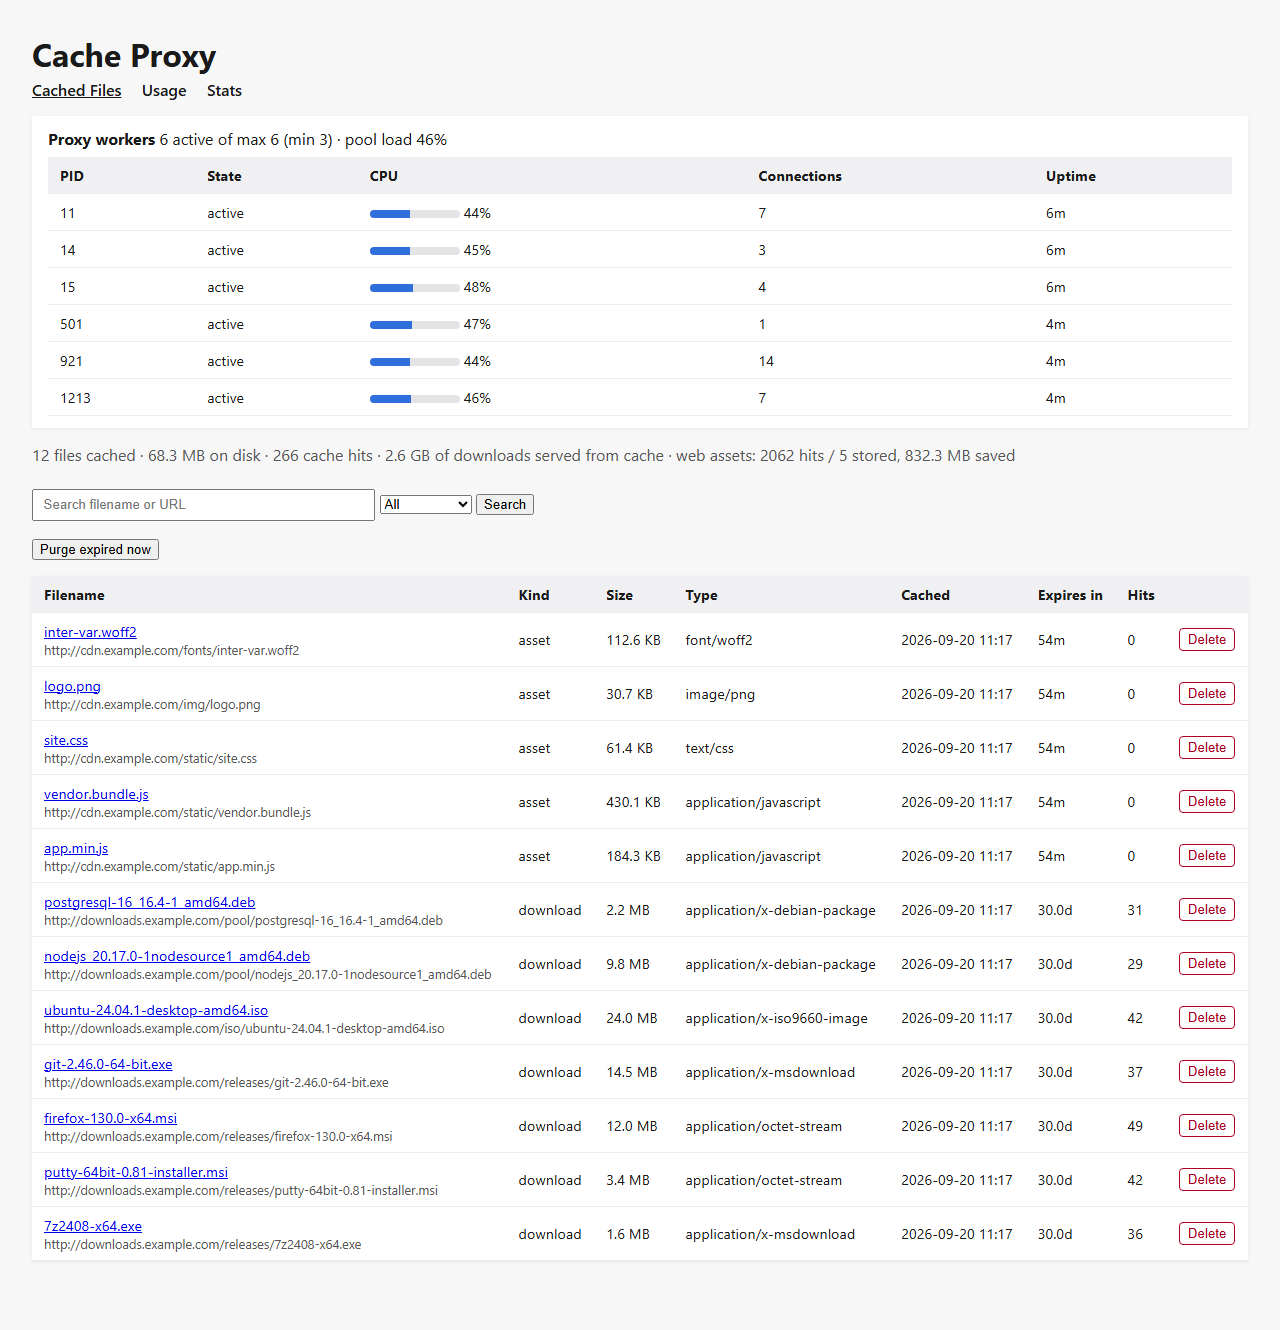
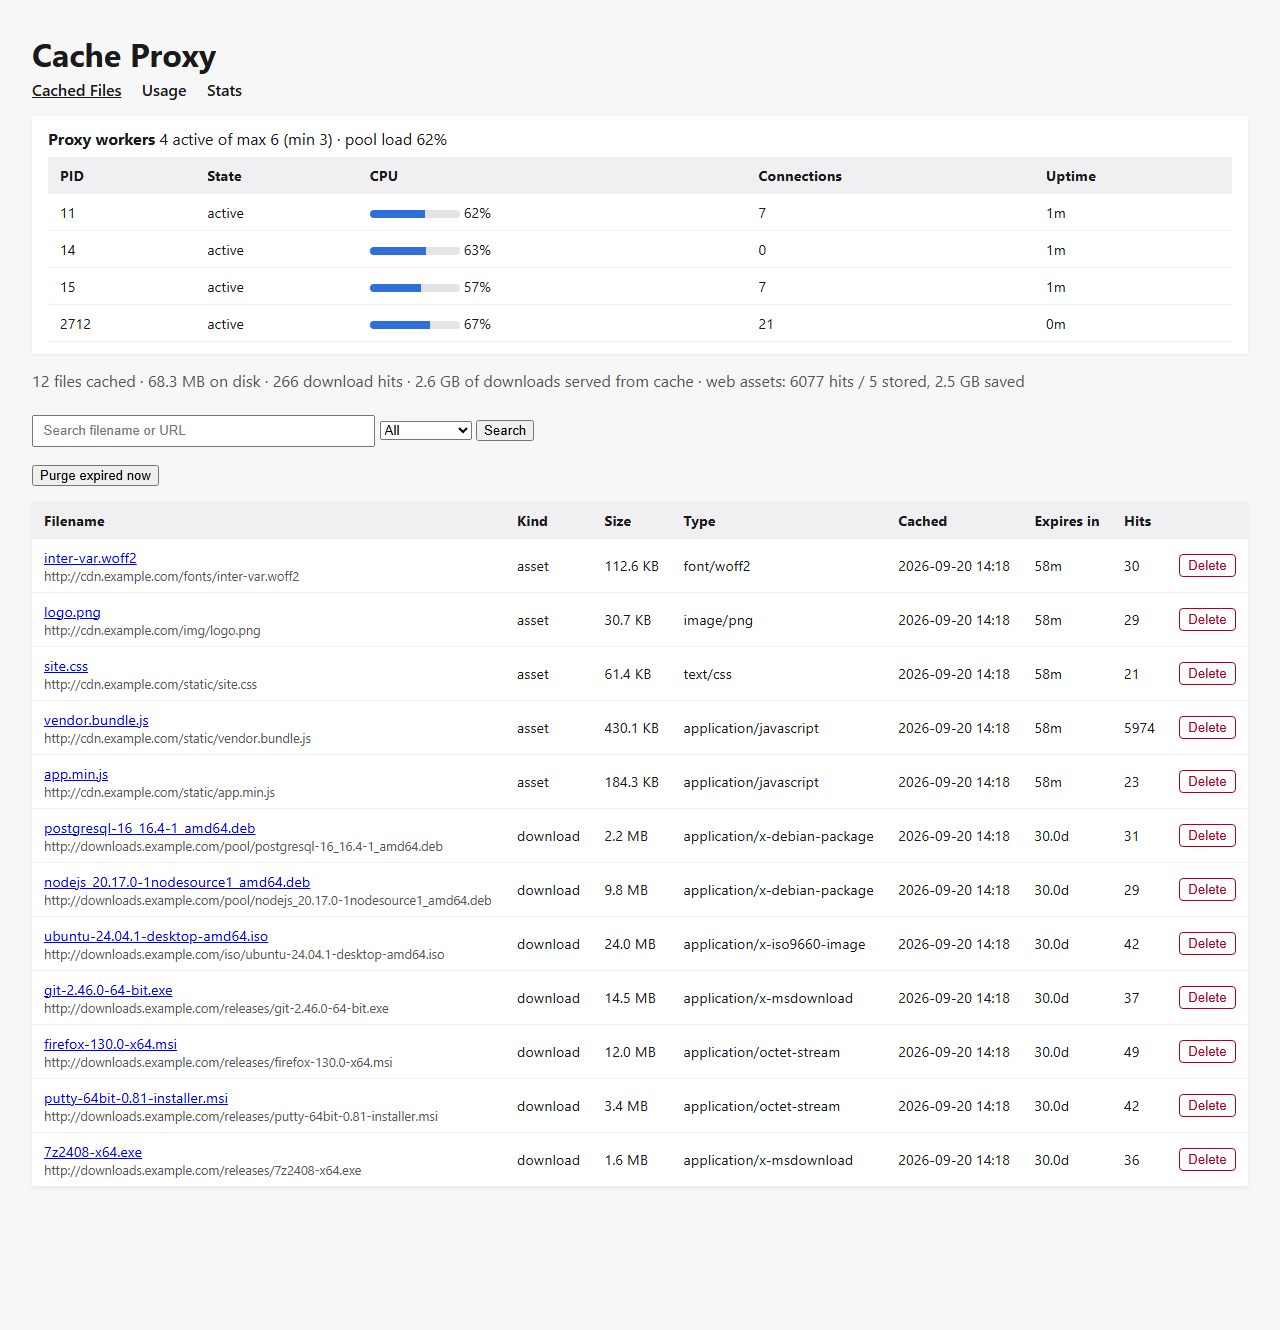
Show per-file hit counts for cached web assets
The Hits column was always 0 for assets, since their hits were only counted
in aggregate to avoid a database write per request. Tally them per file in
memory and flush in batches with the aggregate counters (every refresh
interval, snapshot taken on the event-loop thread, restored if a write
fails).

Side effects, both intended: assets now get a real last-hit time, so quota
eviction keeps assets that are in use; and the main page's summary hits and
bytes-saved are restricted to downloads so assets aren't counted twice next
to the separate web-assets figure (label now reads "download hits").

Docs updated (known-quirk note removed) and the files-page screenshot retaken.

diff --git a/proxy/cache_proxy/webui/templates/index.html b/proxy/cache_proxy/webui/templates/index.html
@@ -30,7 +30,7 @@
     {{ stats.count }} files cached &middot;
     {{ stats.total_size | human_size }} on disk
     {% if max_cache_bytes %}(quota {{ max_cache_bytes | human_size }}){% endif %} &middot;
-    {{ stats.total_hits }} cache hits &middot;
+    {{ stats.total_hits }} download hits &middot;
     {{ stats.bytes_saved | human_size }} of downloads served from cache
     {% if counters.get('asset_hits') or counters.get('asset_misses') %}
       &middot; web assets: {{ counters.get('asset_hits', 0) }} hits /

diff --git a/proxy/tests/test_ttl.py b/proxy/tests/test_ttl.py
@@ -228,3 +228,80 @@ def test_save_file_leaves_no_temp_files():
 ])
 def test_parse_range(header, size, expected):
     assert addon.parse_range(header, size) == expected
+
+
+# ---- per-file hit counts for assets ----------------------------------------
+
+def _asset_addon(url="https://a/x.js"):
+    store.save_file(url, "x.js", "text/javascript", b"body", kind="asset", ttl=1000)
+    a = addon.CacheAddon()
+    a.load(None)
+    return a, url
+
+
+def _hit(a, url):
+    flow = _flow(url)
+    flow.client_conn.peername = ("10.0.0.5", 1)
+    flow.response = None
+    a.request(flow)
+    assert flow.response is not None
+
+
+def test_record_hits_updates_count_and_last_hit_time():
+    store.save_file("https://a/x.js", "x.js", "t", b"b", kind="asset", ttl=1000)
+    h = store.url_hash("https://a/x.js")
+    before = time.time()
+    store.record_hits({h: 3, "0" * 64: 9})  # unknown hash is ignored
+    e = store.get_entry(h)
+    assert e["hit_count"] == 3 and e["last_hit_at"] >= before
+    store.record_hits({h: 2})
+    assert store.get_entry(h)["hit_count"] == 5
+    store.record_hits({})  # no-op
+
+
+def test_asset_hits_are_tallied_in_memory_then_flushed_in_one_batch():
+    a, url = _asset_addon()
+    h = store.url_hash(url)
+    for _ in range(4):
+        _hit(a, url)
+    assert a._asset_hits == {h: 4}
+    assert store.get_entry(h)["hit_count"] == 0  # not written per request
+    a._flush_stats()
+    assert store.get_entry(h)["hit_count"] == 4
+    assert a._asset_hits == {} and store.get_counters()["asset_hits"] == 4
+    a._flush_stats()  # nothing new: no double counting
+    assert store.get_entry(h)["hit_count"] == 4
+
+
+def test_failed_flush_keeps_the_tallies_for_the_next_one(monkeypatch):
+    a, url = _asset_addon()
+    h = store.url_hash(url)
+    _hit(a, url)
+    with monkeypatch.context() as m:  # scoped, so the fixture's temp-dir patches stay
+        m.setattr(store, "record_hits", MagicMock(side_effect=RuntimeError("db busy")))
+        with pytest.raises(RuntimeError):
+            a._flush_stats()
+    assert a._asset_hits == {h: 1}  # put back
+    _hit(a, url)
+    a._flush_stats()
+    assert store.get_entry(h)["hit_count"] == 2
+
+
+def test_summary_hits_and_bytes_saved_are_downloads_only():
+    store.save_file("https://a/setup.exe", "setup.exe", "t", b"x" * 100)
+    store.record_hits({store.url_hash("https://a/setup.exe"): 2})
+    store.save_file("https://a/x.js", "x.js", "t", b"y" * 10, kind="asset", ttl=1000)
+    store.record_hits({store.url_hash("https://a/x.js"): 50})
+    s = store.stats()
+    assert s["count"] == 2  # both are cached files
+    assert s["total_hits"] == 2 and s["bytes_saved"] == 200  # assets aren't double-counted
+
+
+def test_recently_hit_asset_survives_quota_eviction():
+    store.save_file("https://a/old.js", "old.js", "t", b"x" * 100, kind="asset", ttl=1000)
+    store.save_file("https://a/busy.js", "busy.js", "t", b"x" * 100, kind="asset", ttl=1000)
+    with store._connect() as conn:  # both cached long ago
+        conn.execute("UPDATE files SET created_at = created_at - 5000")
+    store.record_hits({store.url_hash("https://a/busy.js"): 7})  # ...but one is in use
+    assert store.evict_to_quota(max_bytes=150) == 1
+    assert {r["filename"] for r in store.list_entries()} == {"busy.js"}

diff --git a/proxy/cache_proxy/addon.py b/proxy/cache_proxy/addon.py
@@ -161,6 +161,7 @@ class CacheAddon:
     def __init__(self):
         self._known_hashes: set = set()
         self._counters: dict = {}
+        self._asset_hits: dict = {}  # url_hash -> hits not yet written to the DB
         # flow.id -> (lock fd, taken at): fetches this worker is leading.
         self._leading: dict = {}
         self._token = secrets.token_hex(16)
@@ -186,9 +187,12 @@ class CacheAddon:
                 # Other workers add (and the supervisor purges) entries; pick
                 # that up. Off the event loop so a slow query can't stall traffic.
                 self._known_hashes = await loop.run_in_executor(None, store.known_hashes)
-                if self._counters:
-                    deltas, self._counters = self._counters, {}
-                    await loop.run_in_executor(None, store.add_counters, deltas)
+                counters, asset_hits = self._take_stats()
+                try:
+                    await loop.run_in_executor(None, self._write_stats, counters, asset_hits)
+                except Exception:
+                    self._restore_stats(counters, asset_hits)
+                    raise
                 # Safety net: never let a leader that somehow missed every
                 # release hook keep a URL locked past the waiters' patience.
                 stale = time.monotonic() - max(2 * config.COALESCE_WAIT, 300)
@@ -196,6 +200,35 @@ class CacheAddon:
                     self._release(fid)
             except Exception as e:
                 logger.warning("cache refresh failed: %s", e)
+
+    # Stats tallies (aggregate counters and per-asset hit counts) live in
+    # memory and are written to the database in batches. The snapshot is taken
+    # on the event-loop thread, the write can run elsewhere, and a failed
+    # write puts the tallies back so nothing is lost.
+
+    def _take_stats(self):
+        counters, self._counters = self._counters, {}
+        asset_hits, self._asset_hits = self._asset_hits, {}
+        return counters, asset_hits
+
+    @staticmethod
+    def _write_stats(counters: dict, asset_hits: dict) -> None:
+        store.add_counters(counters)
+        store.record_hits(asset_hits)
+
+    def _restore_stats(self, counters: dict, asset_hits: dict) -> None:
+        for k, v in counters.items():
+            self._counters[k] = self._counters.get(k, 0) + v
+        for k, v in asset_hits.items():
+            self._asset_hits[k] = self._asset_hits.get(k, 0) + v
+
+    def _flush_stats(self) -> None:
+        counters, asset_hits = self._take_stats()
+        try:
+            self._write_stats(counters, asset_hits)
+        except Exception:
+            self._restore_stats(counters, asset_hits)
+            raise
 
     def _count(self, name: str, n: int = 1) -> None:
         self._counters[name] = self._counters.get(name, 0) + n
@@ -299,6 +332,7 @@ class CacheAddon:
 
         if is_asset:
             self._count("asset_hits")
+            self._asset_hits[h] = self._asset_hits.get(h, 0) + 1
             self._count("asset_bytes_saved", size)
         else:
             store.record_hit(h)

diff --git a/proxy/cache_proxy/store.py b/proxy/cache_proxy/store.py
@@ -169,6 +169,20 @@ def record_hit(url_hash_: str) -> None:
         )
 
 
+def record_hits(deltas: dict) -> None:
+    """Add per-file hit counts in one go ({url_hash: hits}). Used for static
+    assets, whose hits are tallied in memory and flushed in batches instead of
+    costing a database write per request."""
+    if not deltas:
+        return
+    now = time.time()
+    with _connect() as conn:
+        conn.executemany(
+            "UPDATE files SET hit_count = hit_count + ?, last_hit_at = ? WHERE url_hash = ?",
+            [(n, now, h) for h, n in deltas.items()],
+        )
+
+
 def list_entries(
     search: Optional[str] = None,
     limit: int = 500,
@@ -277,8 +291,10 @@ def stats() -> dict:
     with _connect() as conn:
         row = conn.execute(
             "SELECT COUNT(*) AS count, COALESCE(SUM(size),0) AS total_size, "
-            "COALESCE(SUM(hit_count),0) AS total_hits, "
-            "COALESCE(SUM(size * hit_count),0) AS bytes_saved FROM files"
+            # Hits and bytes saved are for downloads only; web-asset traffic is
+            # reported separately (counters), so it isn't counted twice.
+            "COALESCE(SUM(CASE WHEN kind='download' THEN hit_count END),0) AS total_hits, "
+            "COALESCE(SUM(CASE WHEN kind='download' THEN size * hit_count END),0) AS bytes_saved FROM files"
         ).fetchone()
         return dict(row)
 

diff --git a/proxy/tests/test_webui.py b/proxy/tests/test_webui.py
@@ -275,3 +275,12 @@ def test_hourly_stats_json_and_flagged_page(webui_server):
     assert "Flagged this hour" in page and "10.9.9.9" in page
     quiet = __import__("json").loads(_get(webui_server + "/api/hourly-stats?client=nobody").read())
     assert quiet["series"] == {} and quiet["anomalies"] == []
+
+
+def test_summary_counts_download_hits_only_but_lists_asset_hits(webui_server):
+    store.save_file("https://cdn.example.com/app.js", "app.js", "text/javascript", b"js", kind="asset", ttl=1800)
+    store.record_hits({store.url_hash("https://cdn.example.com/app.js"): 42})
+    body = _get(webui_server + "/").read().decode()
+    assert "0 download hits" in body  # a.exe has none; the 42 asset hits aren't folded in
+    row = body.split("app.js</a>", 1)[1].split("</tr>", 1)[0]
+    assert "<td>42</td>" in row  # ...but the file's own Hits column shows them

diff --git a/proxy/tests/test_pool_integration.py b/proxy/tests/test_pool_integration.py
@@ -360,3 +360,19 @@ def test_coalescing_can_be_turned_off(origin, tmp_path):
     finally:
         proc.terminate()
         proc.wait(timeout=10)
+
+
+def test_asset_hits_show_up_per_file(origin, single_proxy):
+    import sqlite3
+    proxy, tmp = single_proxy
+    url = origin["base"] + "/app.js"
+    assert _get(proxy, url).headers["X-Cache-Proxy"] == "MISS-STORED"
+    for _ in range(3):
+        assert _get(proxy, url).headers["X-Cache-Proxy"] == "HIT"
+
+    def flushed():
+        row = sqlite3.connect(tmp / "index.db").execute(
+            "SELECT hit_count, last_hit_at FROM files WHERE kind='asset'").fetchone()
+        return row and row[0] == 3 and row[1] is not None
+
+    assert _wait_until(flushed, seconds=10)  # flushed on the next refresh tick

diff --git a/docs/web-interface.md b/docs/web-interface.md
@@ -63,7 +63,8 @@ numbers.
 **Summary line.**
 
 - files cached and total size on disk (and the quota, if you set one);
-- total cache hits and how much download traffic was served from the cache;
+- download hits and how much download traffic was served from the cache
+  (downloads only; web assets are counted separately, next);
 - web-asset hits, how many assets are stored and how much they saved;
 - how many duplicate fetches were avoided when several clients asked for the
   same new file at once (only shown once this has happened).
@@ -88,14 +89,8 @@ reclaim space sooner.
 | Size, Type | Size on disk and the content type the origin reported. |
 | Cached | When it was fetched (server local time). |
 | Expires in | Time left before it must be fetched again: `59m`, `3.5h`, `30.0d`, or `expired`. |
-| Hits | How many times it has been served from cache. |
+| Hits | How many times it has been served from cache. For web assets this can lag reality by up to about ten seconds, because those counts are written in batches. |
 | Delete | Removes that entry and its file (asks to confirm). |
-
-> **Known quirk:** the *Hits* column is always `0` for web assets, even
-> though they are being served from cache. Asset hits are only counted in
-> total (the "web assets: N hits" figure in the summary line), because
-> recording each one would mean a database write for every page view. The
-> per-file hit count is accurate for downloads.
 
 ---
 

diff --git a/docs/configuration.md b/docs/configuration.md
@@ -92,9 +92,14 @@ A request `Cookie` header does **not** prevent caching; browsers send cookies
 on most static-asset requests, so ignoring them would defeat the cache. The
 response-side rules above are the safeguard.
 
-Asset hits are counted (hits, stored, bytes saved; shown on the main page)
-but are **not** written to the usage log, so ordinary browsing does not
-drown out the download statistics and anomaly detection.
+Asset hits are counted (hits, stored, bytes saved; shown on the main page,
+and per file in the file list) but are **not** written to the usage log, so
+ordinary browsing does not drown out the download statistics and anomaly
+detection. To keep this cheap the counts are tallied in memory and written
+to the database in batches about every ten seconds, so they can lag briefly,
+and a hit in the last few seconds before a restart may not be recorded. Asset
+hits also count when choosing what to evict once the cache is over its size
+limit, so assets in active use are kept.
 
 ---
 

diff --git a/README.md b/README.md
@@ -73,8 +73,8 @@ This README is the overview. The detail is in `docs/`:
   `no-cache`, sets a cookie, needs `Authorization`, or varies on anything
   but `Accept-Encoding`, and a shorter origin `max-age` wins. An expired
   entry is refetched and its lifetime restarts; expired files are purged
-  hourly. Asset traffic is counted (hits/stored/bytes saved) but not written
-  to `access_log`, so it doesn't drown out the usage statistics.
+  hourly. Asset traffic is counted (hits/stored/bytes saved, and per file) but not
+  written to `access_log`, so it doesn't drown out the usage statistics.
 - **Request coalescing**: when several clients ask for the same
   not-yet-cached download or static asset at once (a "stampede" on a fresh
   installer), only the first goes upstream. It takes a per-URL file lock
